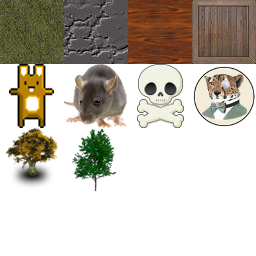
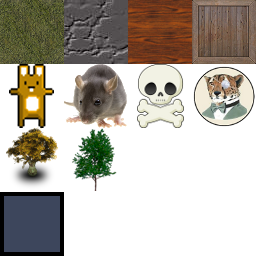
started an action bar

Changed region(s): [[0.0, 0.75, 0.25, 1.0]]

diff --git a/wilderness.js b/wilderness.js
@@ -20,9 +20,10 @@ renderer.view.style.display = "block";
 document.body.appendChild(renderer.view);
 
 var tiles    = {};
-tiles.names  = ["grass", "rock", "tree", "crate", "player", "rat", "skull", "cheetah", "tree1", "tree2"];
-tiles.rooms  = [];
+tiles.names  = ["grass", "rock", "tree", "crate", "player", "rat", "skull", "cheetah", "tree1", "tree2", "slot"];
 tiles.sprite = new PIXI.Sprite(new PIXI.RenderTexture(sizes.screen.x, sizes.screen.y));
+tiles.rooms  = [];
+tiles.trees  = [];
 
 var ui = {};
 
@@ -72,6 +73,22 @@ function createUI() {
   ui.thirstBar.position.x = barMargin   + sizes.tile.x;
   ui.thirstBar.position.y = barMargin*4 + sizes.bar.y*2;
   ui.playerStats.addChild(ui.thirstBar);
+
+  ui.actionBar = new PIXI.DisplayObjectContainer();
+  ui.actionBar.position.x = sizes.console.x + sizes.margin.x*2;
+  ui.actionBar.position.y = sizes.screen.y  - sizes.margin.y - sizes.tile.y;
+  ui.container.addChild(ui.actionBar);
+  ui.actionBar.buttons = [];
+ 
+  for (var x=0; x<4; x++) {
+    var button = PIXI.Sprite.fromFrame("slot"); 
+    button.anchor.x   = 0;
+    button.anchor.y   = 0;
+    button.position.x = 300 + (5 + sizes.tile.x) * x;
+    button.position.y = 0;
+    ui.actionBar.buttons.push(button);
+    ui.actionBar.addChild(button);
+  }
   
 }
 
